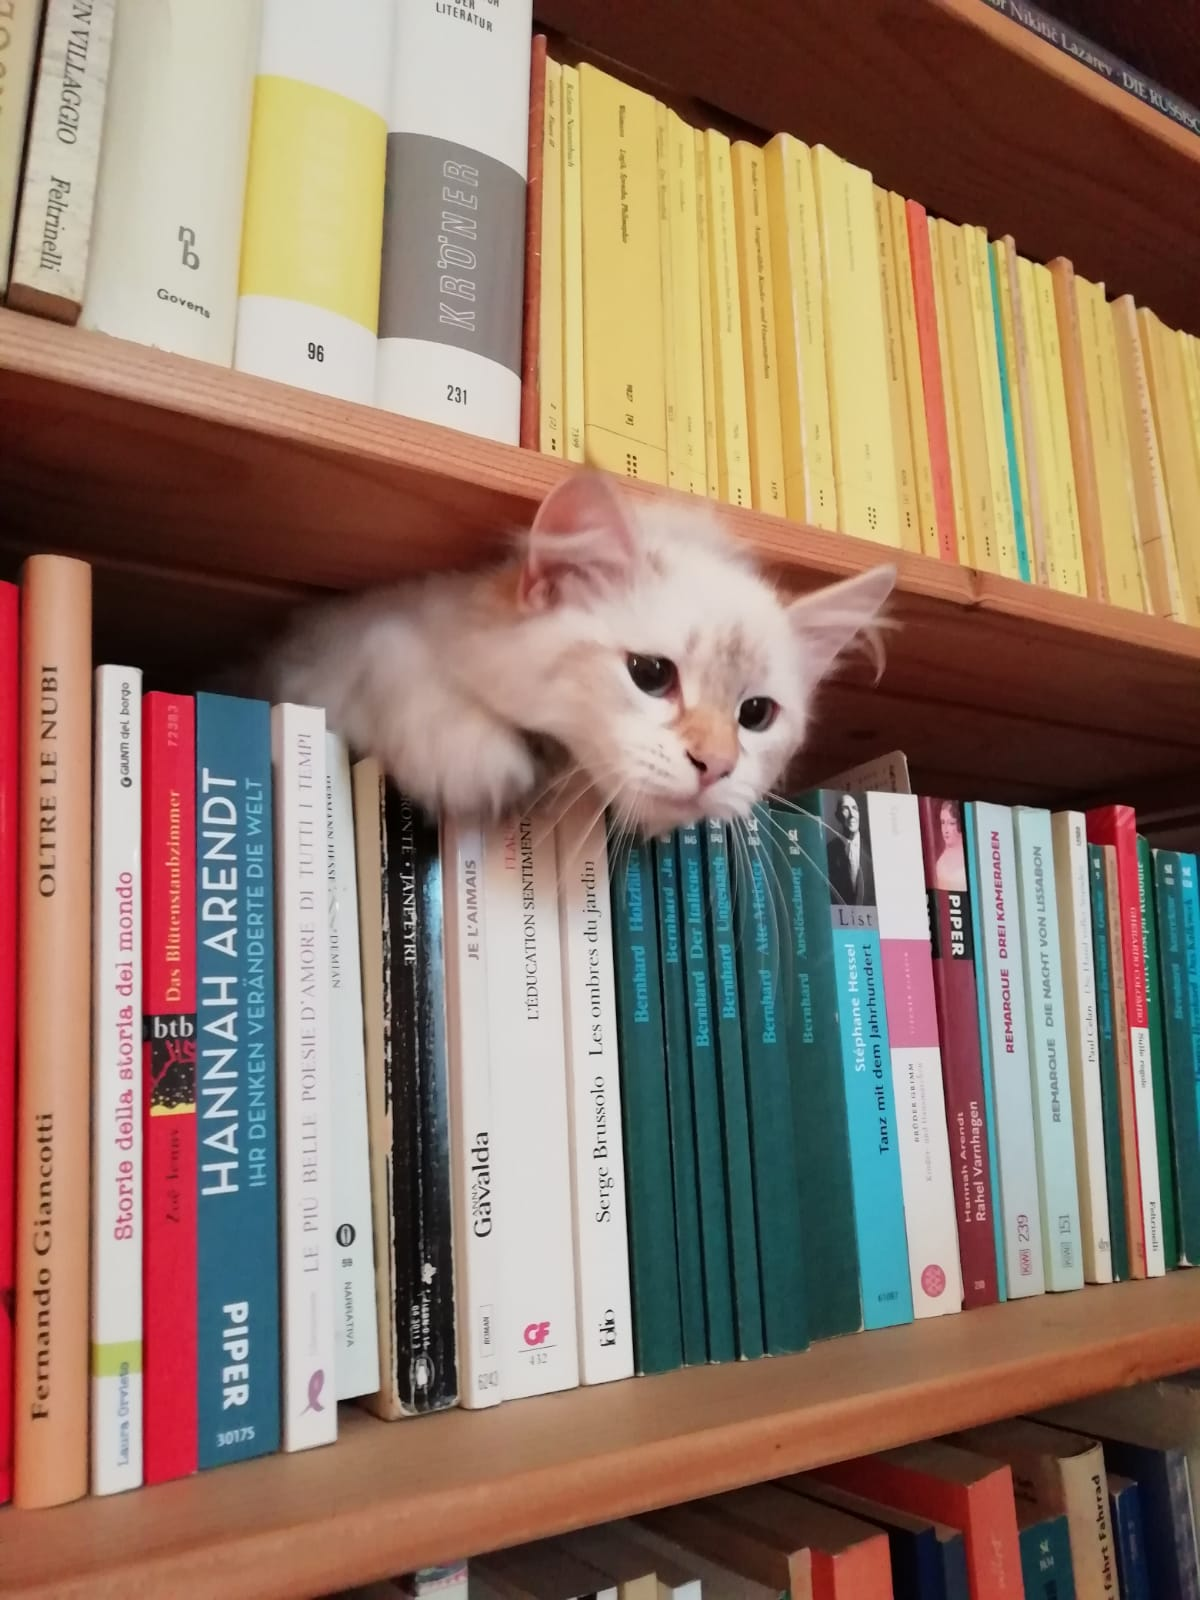
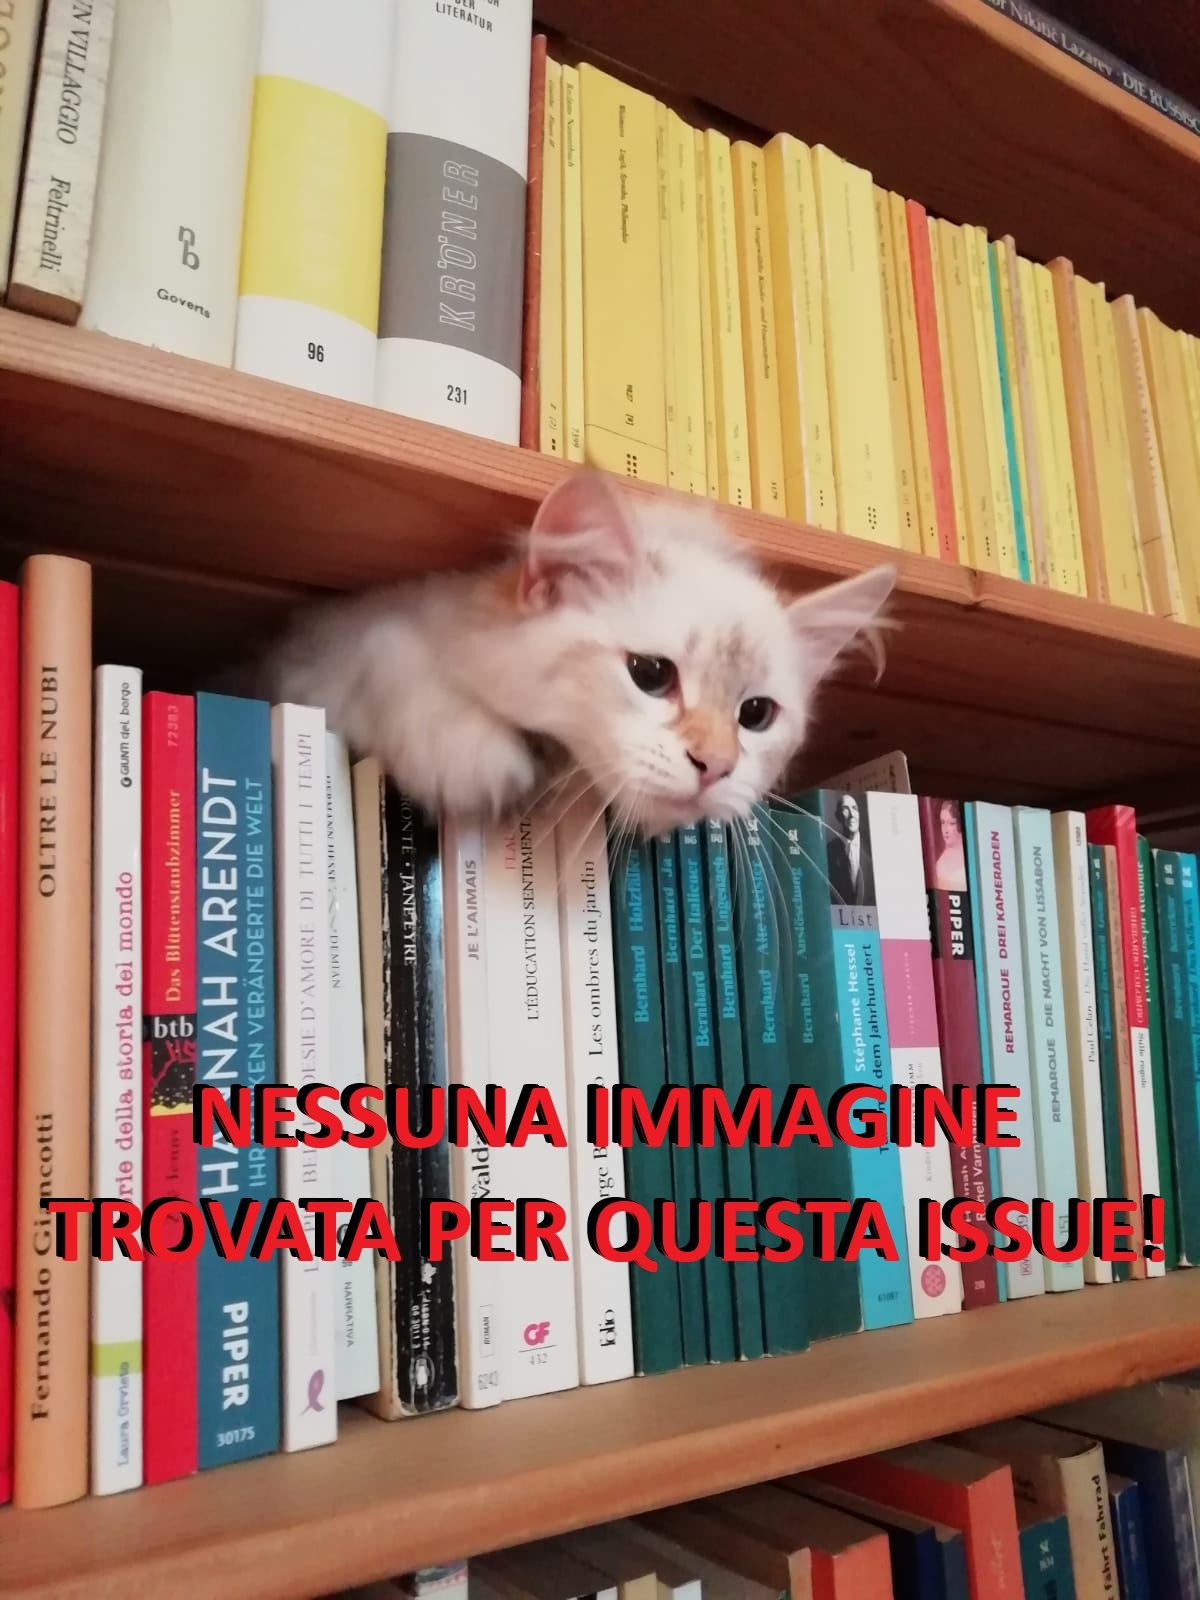
Finito. manca solo revisione

Changed region(s): [[0.0308, 0.75, 0.9867, 0.8125], [0.1542, 0.6562, 0.8633, 0.7188]]

diff --git a/bugboard26-frontend/src/main/java/it/ludina/bugboard26frontend/IssueDetails/ViewImageController.java b/bugboard26-frontend/src/main/java/it/ludina/bugboard26frontend/IssueDetails/ViewImageController.java
@@ -12,7 +12,9 @@ import org.apache.commons.io.FileUtils;
 
 import java.io.File;
 import java.io.IOException;
+import java.util.Arrays;
 import java.util.Base64;
+import java.util.Objects;
 
 @Getter
 @Setter
@@ -23,18 +25,25 @@ public class ViewImageController {
     private AnchorPane anchorPane;
     private int idIssue;
 
+
     public void getImage() {
-        File file;
+        File file = new File("src/main/resources/images/Diana.jpeg");
         try {
-            file = File.createTempFile("trmp-", "-file");
             String encodedImage = HTTPRequestManager.getIssueImage(idIssue);
             byte[] decodedImage = Base64.getDecoder().decode(encodedImage);
-            FileUtils.writeByteArrayToFile(file, decodedImage);
+            if (decodedImage.length > 0) {
+                file = File.createTempFile("trmp-", "-file");
+                FileUtils.writeByteArrayToFile(file, decodedImage);
+
+            }
+
         } catch (IOException e) {
             throw new RuntimeException(e);
         }
 
-        Image image = new Image(file.toURI().toString(), 500, 500, true, true);
+        Image image;
+
+        image = new Image(file.toURI().toString(), 500, 500, true, true);
         imageView.setImage(image);
 
         anchorPane.getScene().getWindow().sizeToScene();

diff --git a/bugboard26-frontend/src/main/java/module-info.java b/bugboard26-frontend/src/main/java/module-info.java
@@ -2,10 +2,10 @@ module it.ludina.bugboard26frontend {
     requires transitive javafx.base;
     requires transitive javafx.graphics;
     requires transitive javafx.controls;
-    requires javafx.fxml;
+    requires transitive javafx.fxml;
     requires javafx.web;
 
-    requires org.controlsfx.controls;
+    requires transitive org.controlsfx.controls;
     requires com.dlsc.formsfx;
     requires net.synedra.validatorfx;
     requires org.kordamp.ikonli.javafx;
@@ -16,11 +16,10 @@ module it.ludina.bugboard26frontend {
     requires java.desktop;
     requires org.apache.commons.io;
 
-    opens it.ludina.bugboard26frontend to javafx.fxml, com.google.gson;
+    opens it.ludina.bugboard26frontend to javafx.fxml, com.google.gson, org.controlsfx.controls;
     exports it.ludina.bugboard26frontend;
     exports it.ludina.bugboard26frontend.IssueDetails;
     opens it.ludina.bugboard26frontend.IssueDetails to javafx.fxml;
     exports it.ludina.bugboard26frontend.ErrorsController;
     opens it.ludina.bugboard26frontend.ErrorsController to javafx.fxml;
-
 }

diff --git a/bugboard26-frontend/src/main/java/it/ludina/bugboard26frontend/IssueListController.java b/bugboard26-frontend/src/main/java/it/ludina/bugboard26frontend/IssueListController.java
@@ -8,6 +8,7 @@ import javafx.fxml.FXML;
 import javafx.fxml.Initializable;
 import javafx.scene.control.*;
 import javafx.scene.control.cell.PropertyValueFactory;
+import org.controlsfx.control.table.TableFilter;
 
 import java.net.URL;
 import java.util.ResourceBundle;
@@ -44,5 +45,7 @@ public class IssueListController implements Initializable {
         viewColumn.setCellFactory(issueBooleanTableColumn -> new ViewDetailCell(issueTableView));
 
         issueTableView.setItems(list);
+
+        TableFilter<Issue> filter = TableFilter.forTableView(issueTableView).apply();
     }
 }
